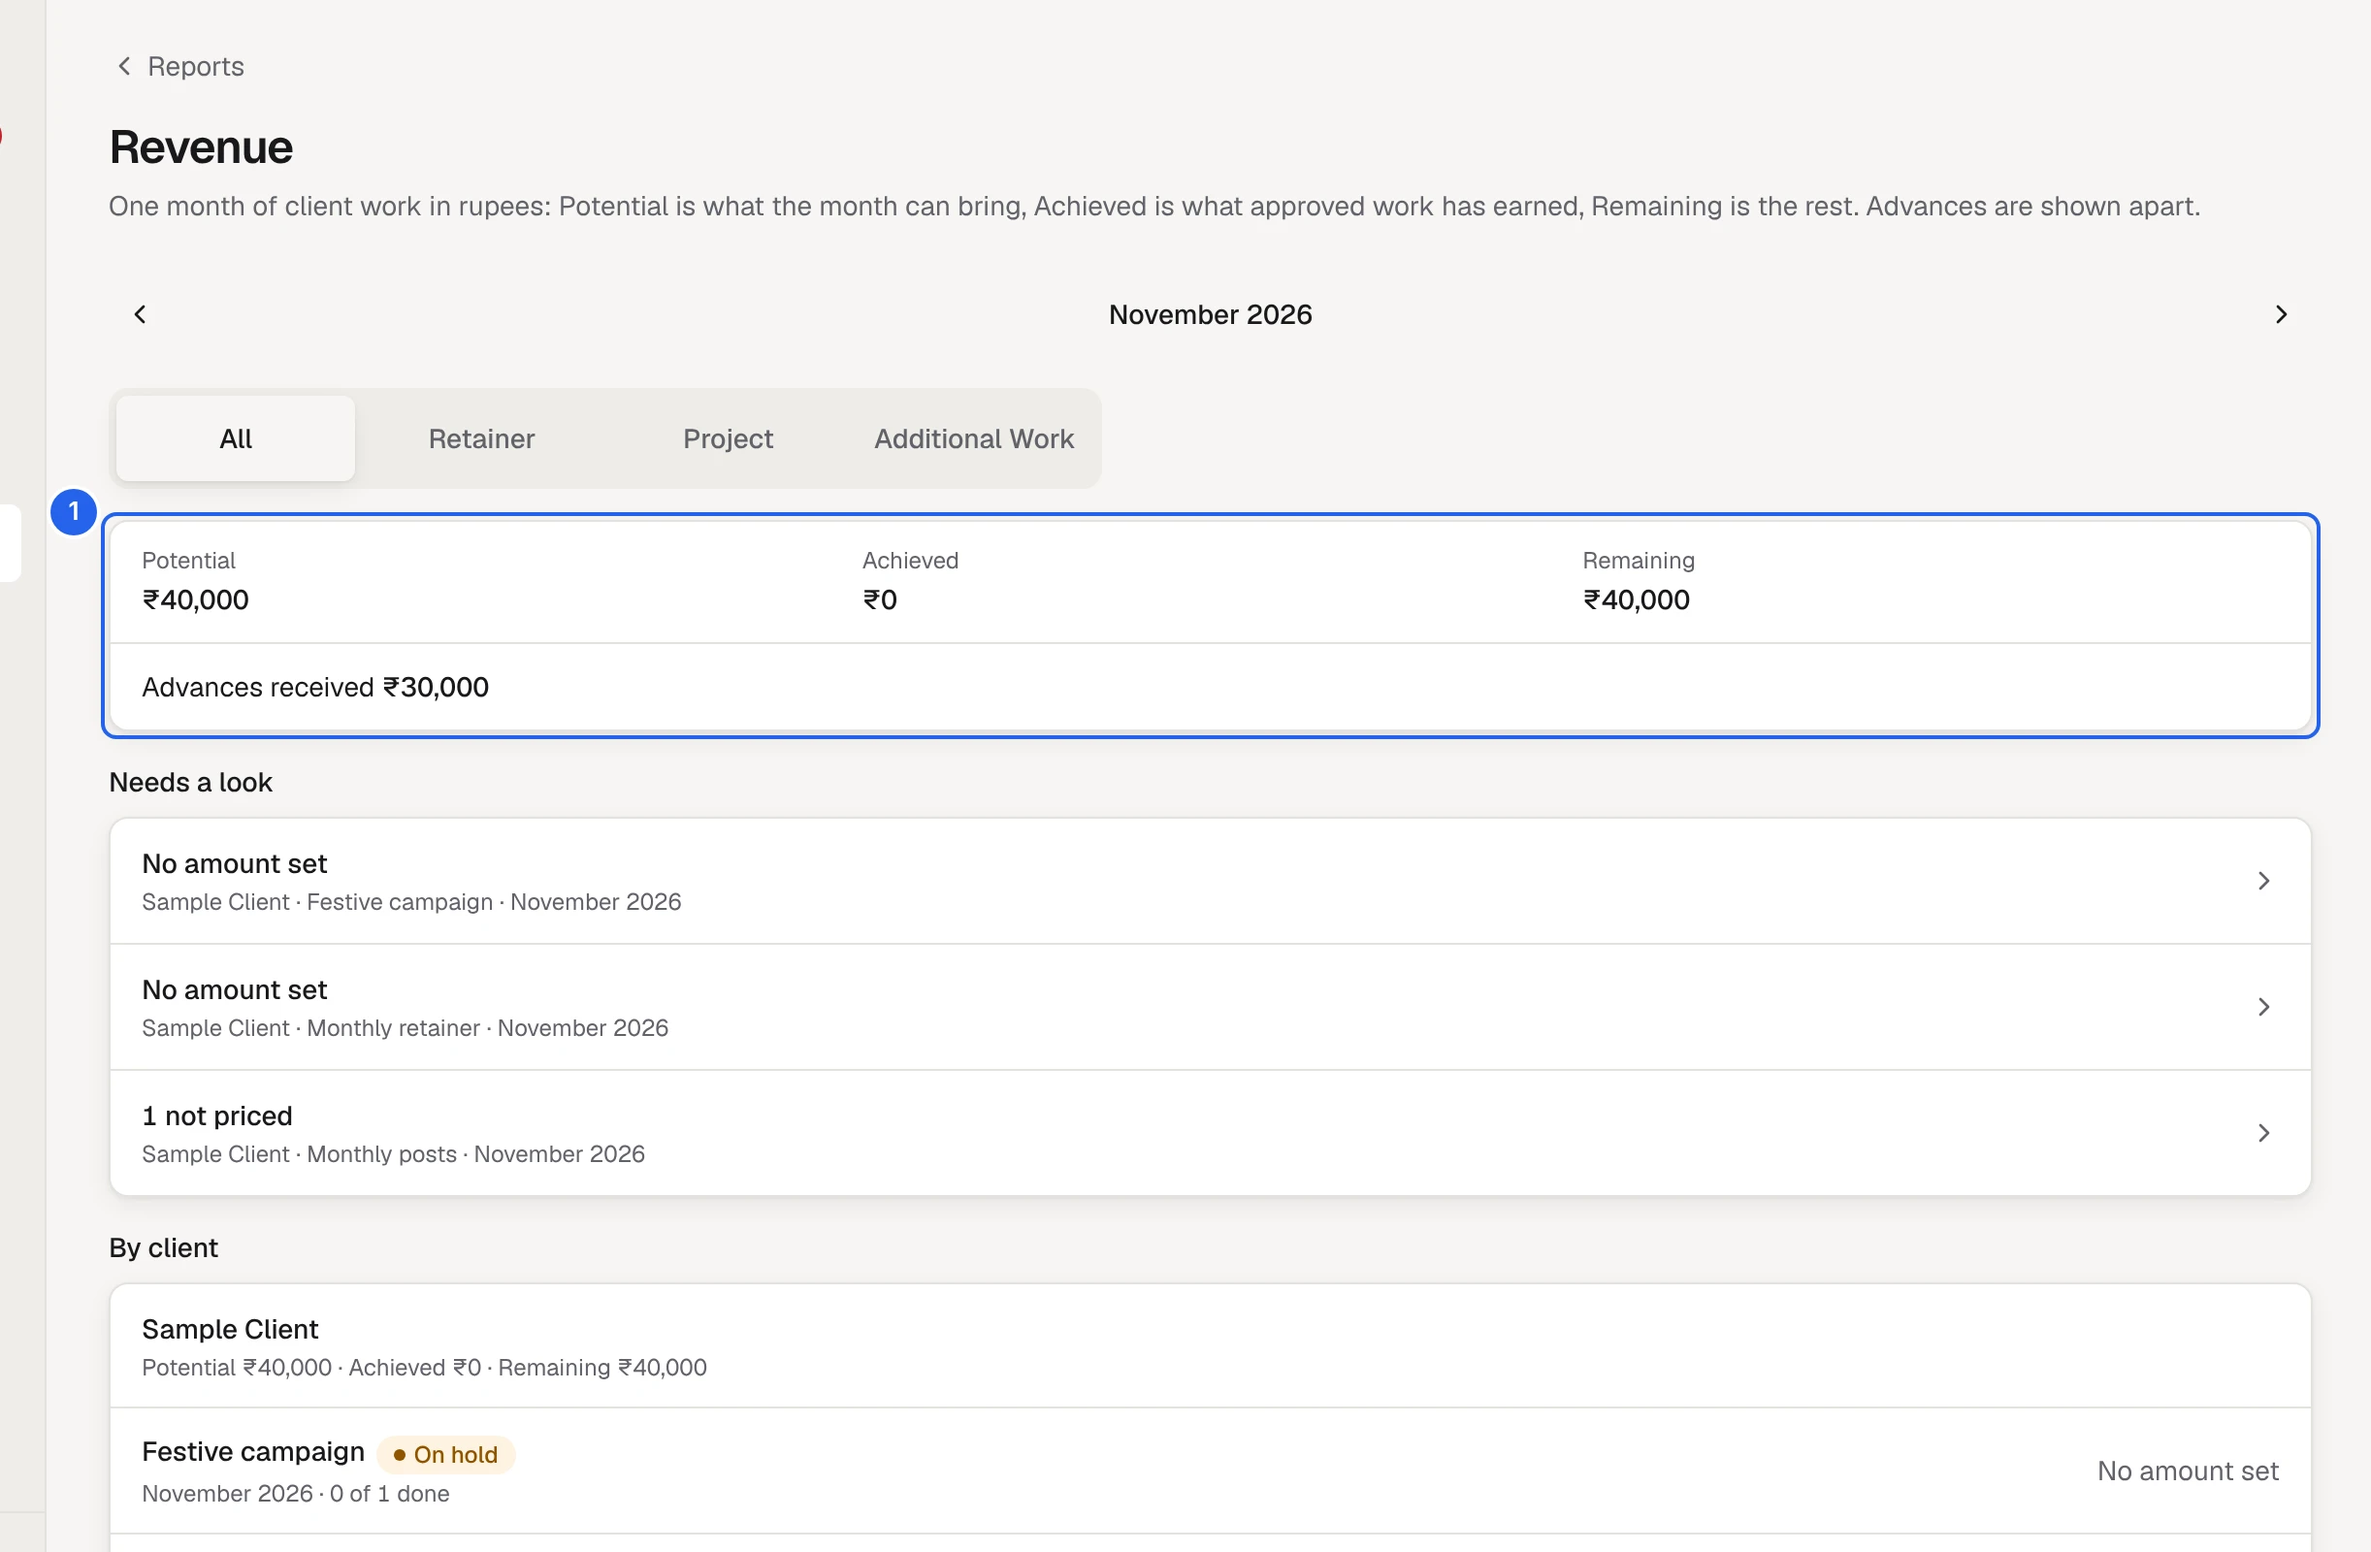
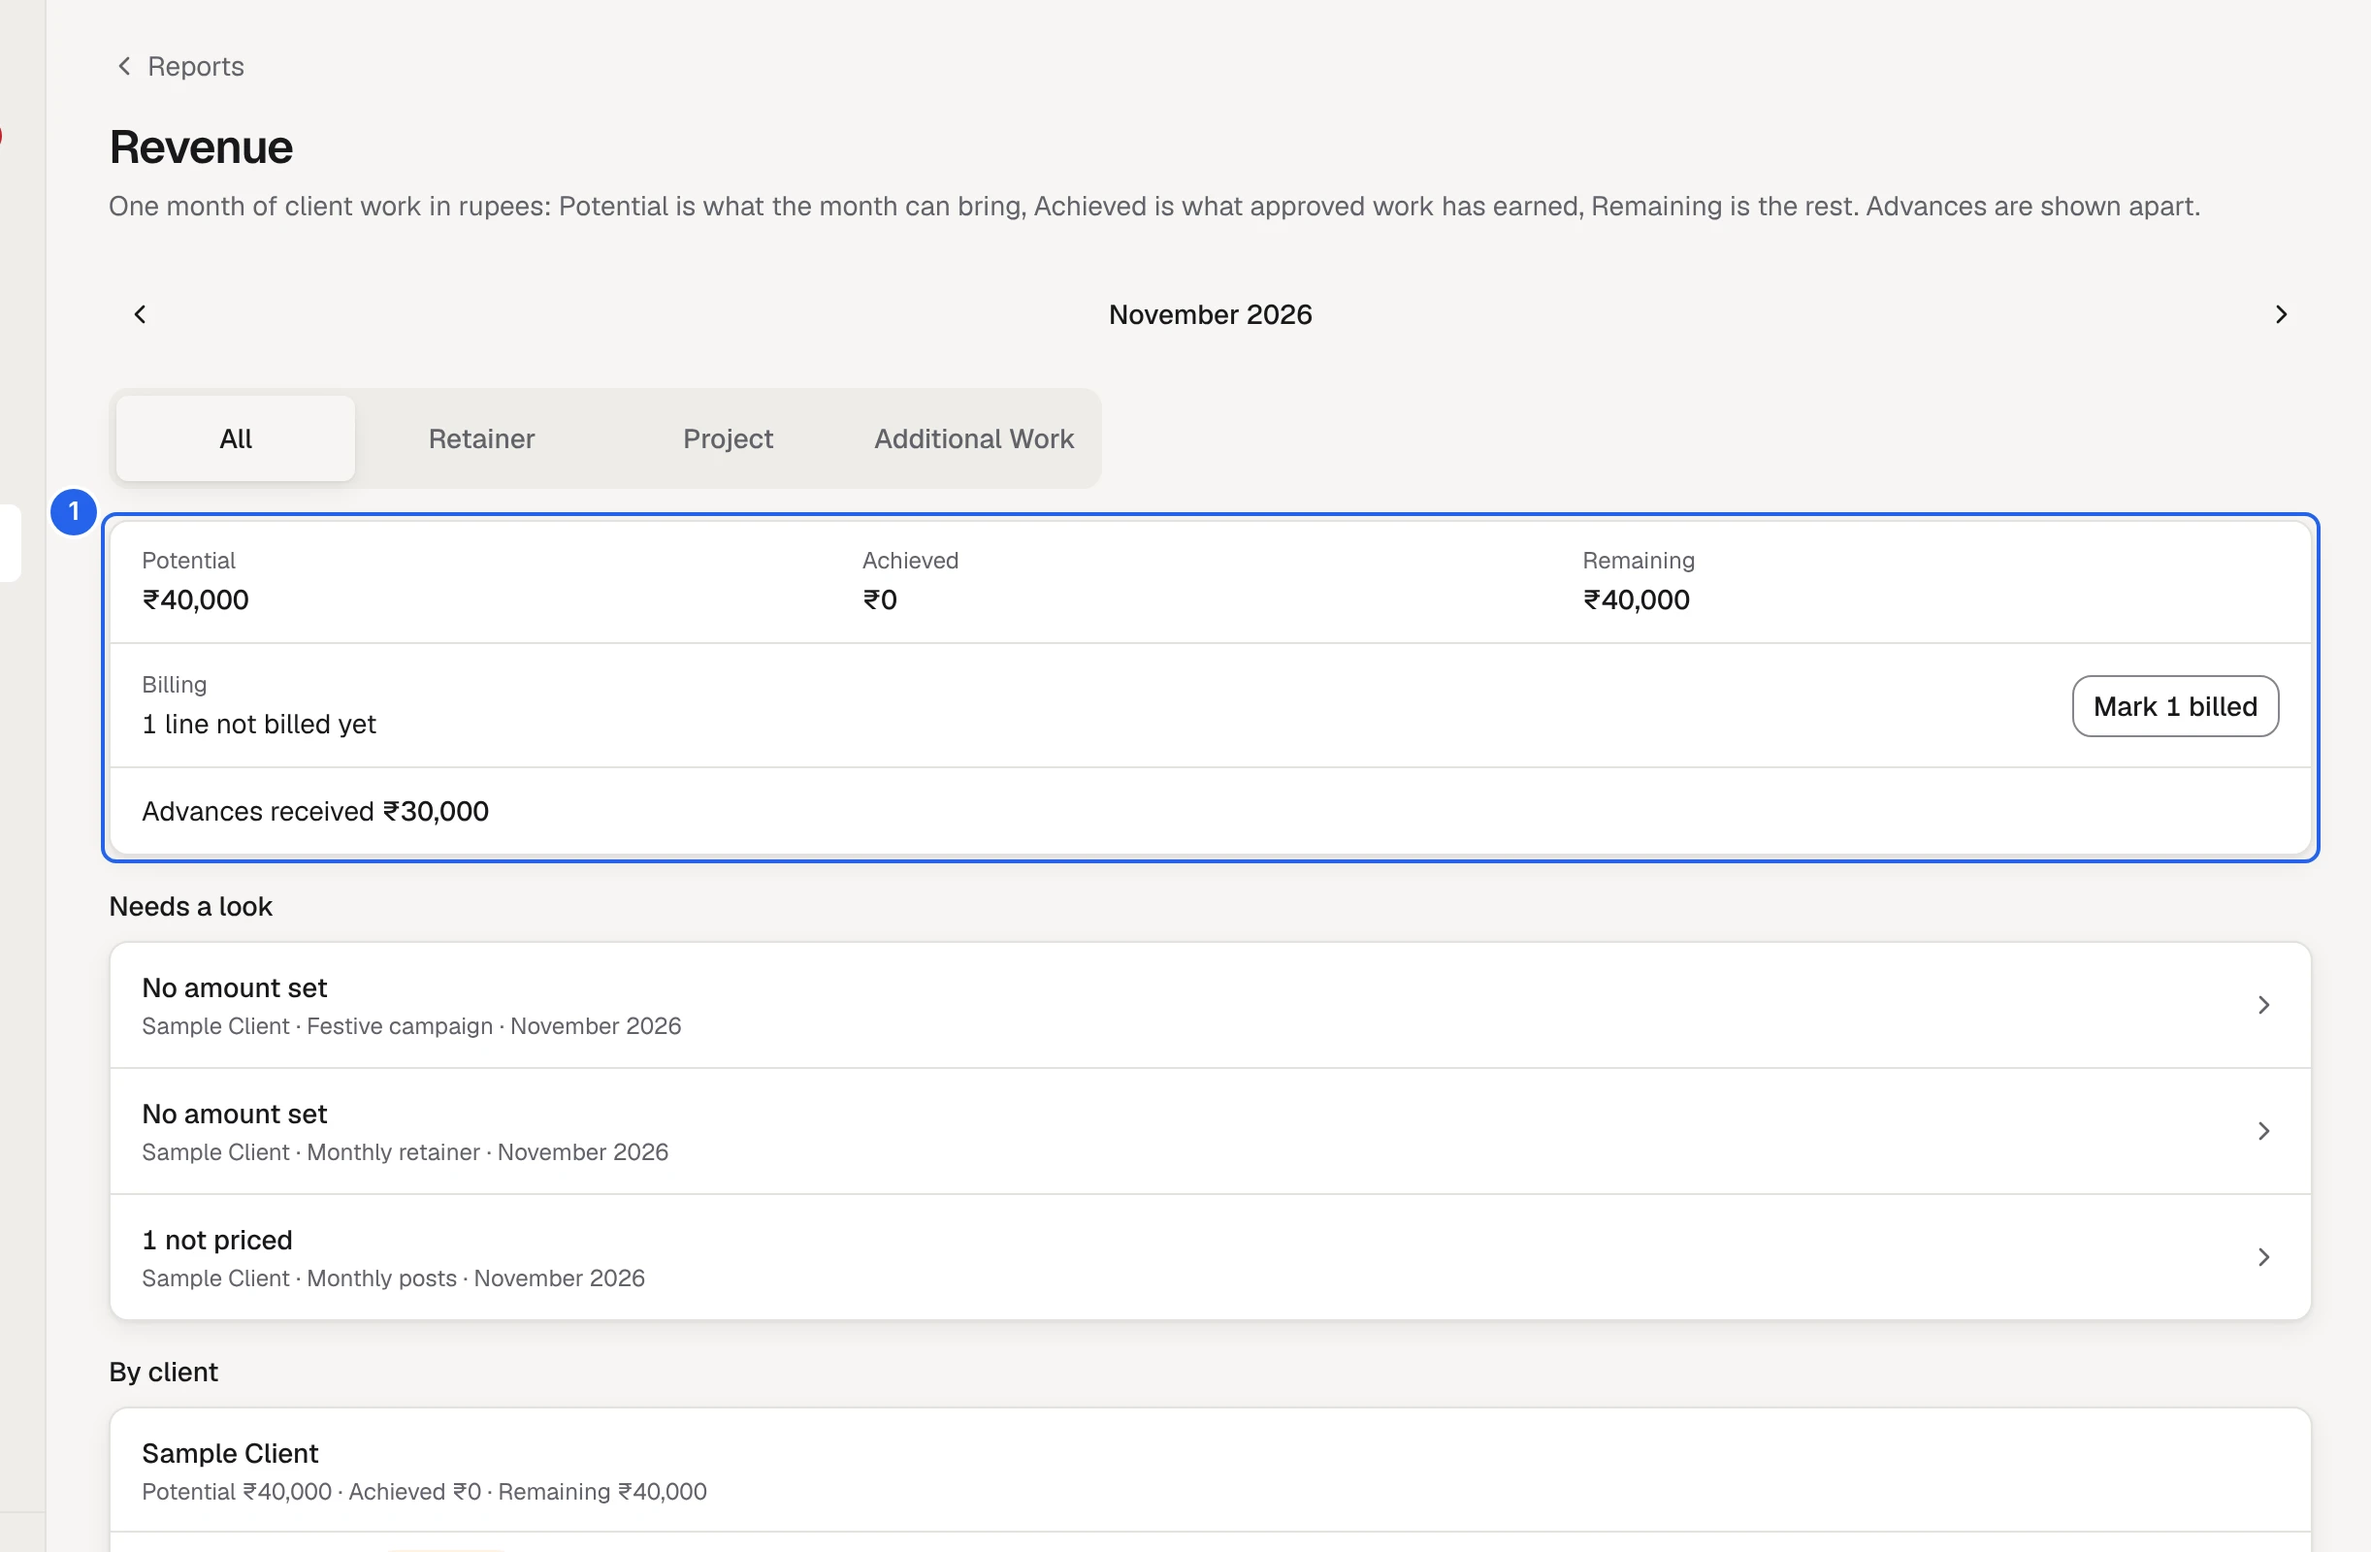
v3.5: the Owner's guide pictures retaken; ships in the combined release
- Guide pictures, daytime window (GUIDE_ONLY=owner/reports,owner/revenue,
  owner/month-close, DB reset before and after): Reports now shows
  "October isn't closed yet"; Revenue with this month's figures and
  billing; Month close came out unchanged.
- RELEASE-NOTES: ships in the combined release after v4.5 (owner
  decision, #89: one production release covers v2.0.1 -> v4.5; v3.5
  merges after v3.0). Full CI 45751779393 green on 8931a04.
- PROGRESS: the state and what is next (READY FOR OWNER).

pnpm check green after db:reset (unit 2,847).

Claude-Session: https://claude.ai/code/session_015vyzMVbsSmbeQ9jX6CkLqj

Changed region(s): [[0.0311, 0.625, 0.964, 1.0], [0.0311, 0.4375, 0.9951, 0.5938], [0.9018, 0.9375, 0.964, 0.9688]]

diff --git a/src/modules/guide/domain/shots.generated.ts b/src/modules/guide/domain/shots.generated.ts
@@ -698,7 +698,7 @@ export const GUIDE_SHOTS: Readonly<
   "owner/reports": {
     src: "/guide/owner/reports.webp",
     width: 1220,
-    height: 582,
+    height: 656,
     alt: "Reports with the Month report highlighted.",
   },
   "owner/report-month-counts": {

diff --git a/docs/PROGRESS.md b/docs/PROGRESS.md
@@ -6,6 +6,7 @@
 > Keep it short: current state, what's next, and anything the next session must know.
 
 ## Current state
+- **v3.5: the guide pictures retaken, CI green, combined release (Thu 26 Nov 2026, ~11:20 IST, builder; branch `phase-v35`).** Full CI 45751779393 on 8931a04 green (all four Playwright shards, phone-inp included); push run 45751771735 green. The two fixes in 8931a04 also went to `main` as #161 (route manifest) and #162 (toast width, with mobile.spec "a toast fits the phone"), merged 26 Nov; v3.5's hunks are identical, so merging main later is clean. Pictures `owner/reports` (now with "October isn't closed yet"), `owner/revenue`, `owner/month-close` retaken in the daytime window (`GUIDE_ONLY=owner/reports,owner/revenue,owner/month-close`, DB reset before and after; month-close's came out byte-identical). **Owner decision (#89, relayed by the advisor 26 Nov):** one production release covers v2.0.1 → v4.5; v3.5 merges after v3.0 and RELEASE-NOTES says it ships in that combined release. `pnpm check` green after `db:reset` (unit 2,847). **Next:** READY FOR OWNER on #89 (CI, the probe table with `readClosedMonths` +7 ms as the one intended new read on the Owner project page, the walk script and its choices), then the PR (the advisor).
 - **v3.5: full CI 45726067741 on 0e45ef7 fixed (Thu 26 Nov 2026, subagent; branch `phase-v35`, local only, not pushed).** (1) **Budget, /calendar 712.0 KB over 712.0 KB (CI way, `build:worker` + `budget`):** not v3.5's code but Sentry's route manifest (`globalThis._sentryRouteManifest`, ~2.6 KB, inlined into `instrumentation-client` in every route's first load): each new page grows every route (v2.1's `/reports/revenue` +28 B, v3.5's `/reports/close/:month` +145 B; /calendar 728,929 B on main, 728,957 on v21, 729,074 here, budget 729,088; CI's longer app version string tipped it). It only names performance transactions and tracing is off, and it listed Owner-only routes to every role: `routeManifestInjection: false` in `next.config.ts` → /calendar **726,427 B (709.4 KB)**, every route −2.6 KB, budgets untouched. **Port to v2.1/v2.5/main** (one line). (2) **month-close.spec:365 on 375/430:** the overflowing element was sonner's toast list (`ol[data-sonner-toaster]`, "Price saved" still up under the Set value sheet): sonner's phone CSS sets left/right 16px *and* `width: 100%`, so the empty list reached 16px past the right edge on every phone toast. `globals.css` lets the offsets set the width and the toast fill the list (toast unchanged, 16px each side); assertion untouched. Same sonner CSS on every branch (port with the next UI change). (3) **phone-inp.spec:91 (admin /today → /approvals) alone ×10 on mobile, workers 1:** 10/10 here (INP 80–152 ms) and 10/10 on `origin/phase-v21-money` (80–144 ms); the Owner's same tap alone ×10: v35 72–184, v21 72–176, v25 88–192 ms, all green. In the whole spec (6 runs each): v35 two runs with one tap over 200 (Owner /today → /approvals 208, Admin /tasks → /clients 360, neither repeating), v21 none; alone every one passes, so not changed (a tail under load, the earlier PROGRESS note).
 - **v3.5 speed gate: local same-machine A/B for Admin "a client" (slow twice in a row on the GitHub probe: +64 ms / +10 %, +79 ms / +11 %) and Owner `/people` (Wed 25 Nov 2026, subagent; branch `phase-v35`, local only; no code changed).** Two production builds side by side, **v21** `origin/phase-v21-money` 3d8172a (port 3201) and **v35** 6f5cc43 (3204, v2.5 merged), on one local stack (`pnpm db:reset` on phase-v35's migrations; seed + the A/B fixture: one Active client whose Admin is the seeded Admin, with a monthly and a weekly project, 32 tasks, 8 priced retainer clients). One logging proxy in front of Supabase records every DB call; 3 warm rounds, then 11 paired alternating loads per route × role; two direct passes and one model pass (150 ms per call, 6 connections). Medians, ms, v21 / v35:
 

diff --git a/docs/RELEASE-NOTES.md b/docs/RELEASE-NOTES.md
@@ -6,8 +6,8 @@ releases (v1.0.0 to v1.3.0) are recorded in their tag messages and in `PROGRESS.
 
 ## v3.5: month close
 
-**Not released yet.** Release candidate: `phase-v35` (built on `phase-v21-money`, so it ships after v2.1). The
-head named in #89's READY FOR OWNER post; the guide's pictures, full CI and the speed gate are still owed.
+**Not released yet. Ships in the combined release after v4.5** (owner decision, #89: one production release covers v2.0.1 → v4.5; v3.5 merges after v3.0). Release candidate: `phase-v35` (built on `phase-v21-money`). The
+head named in #89's READY FOR OWNER post (full CI green, the speed gate passed, the guide's pictures retaken).
 
 The second part of Revenue (phase 9, 9.4): the Owner can **close a month**, which saves its revenue report as it
 is, and **correct** it later as a new version. **Only the Owner sees any of it.** Admins and the Crew are never
